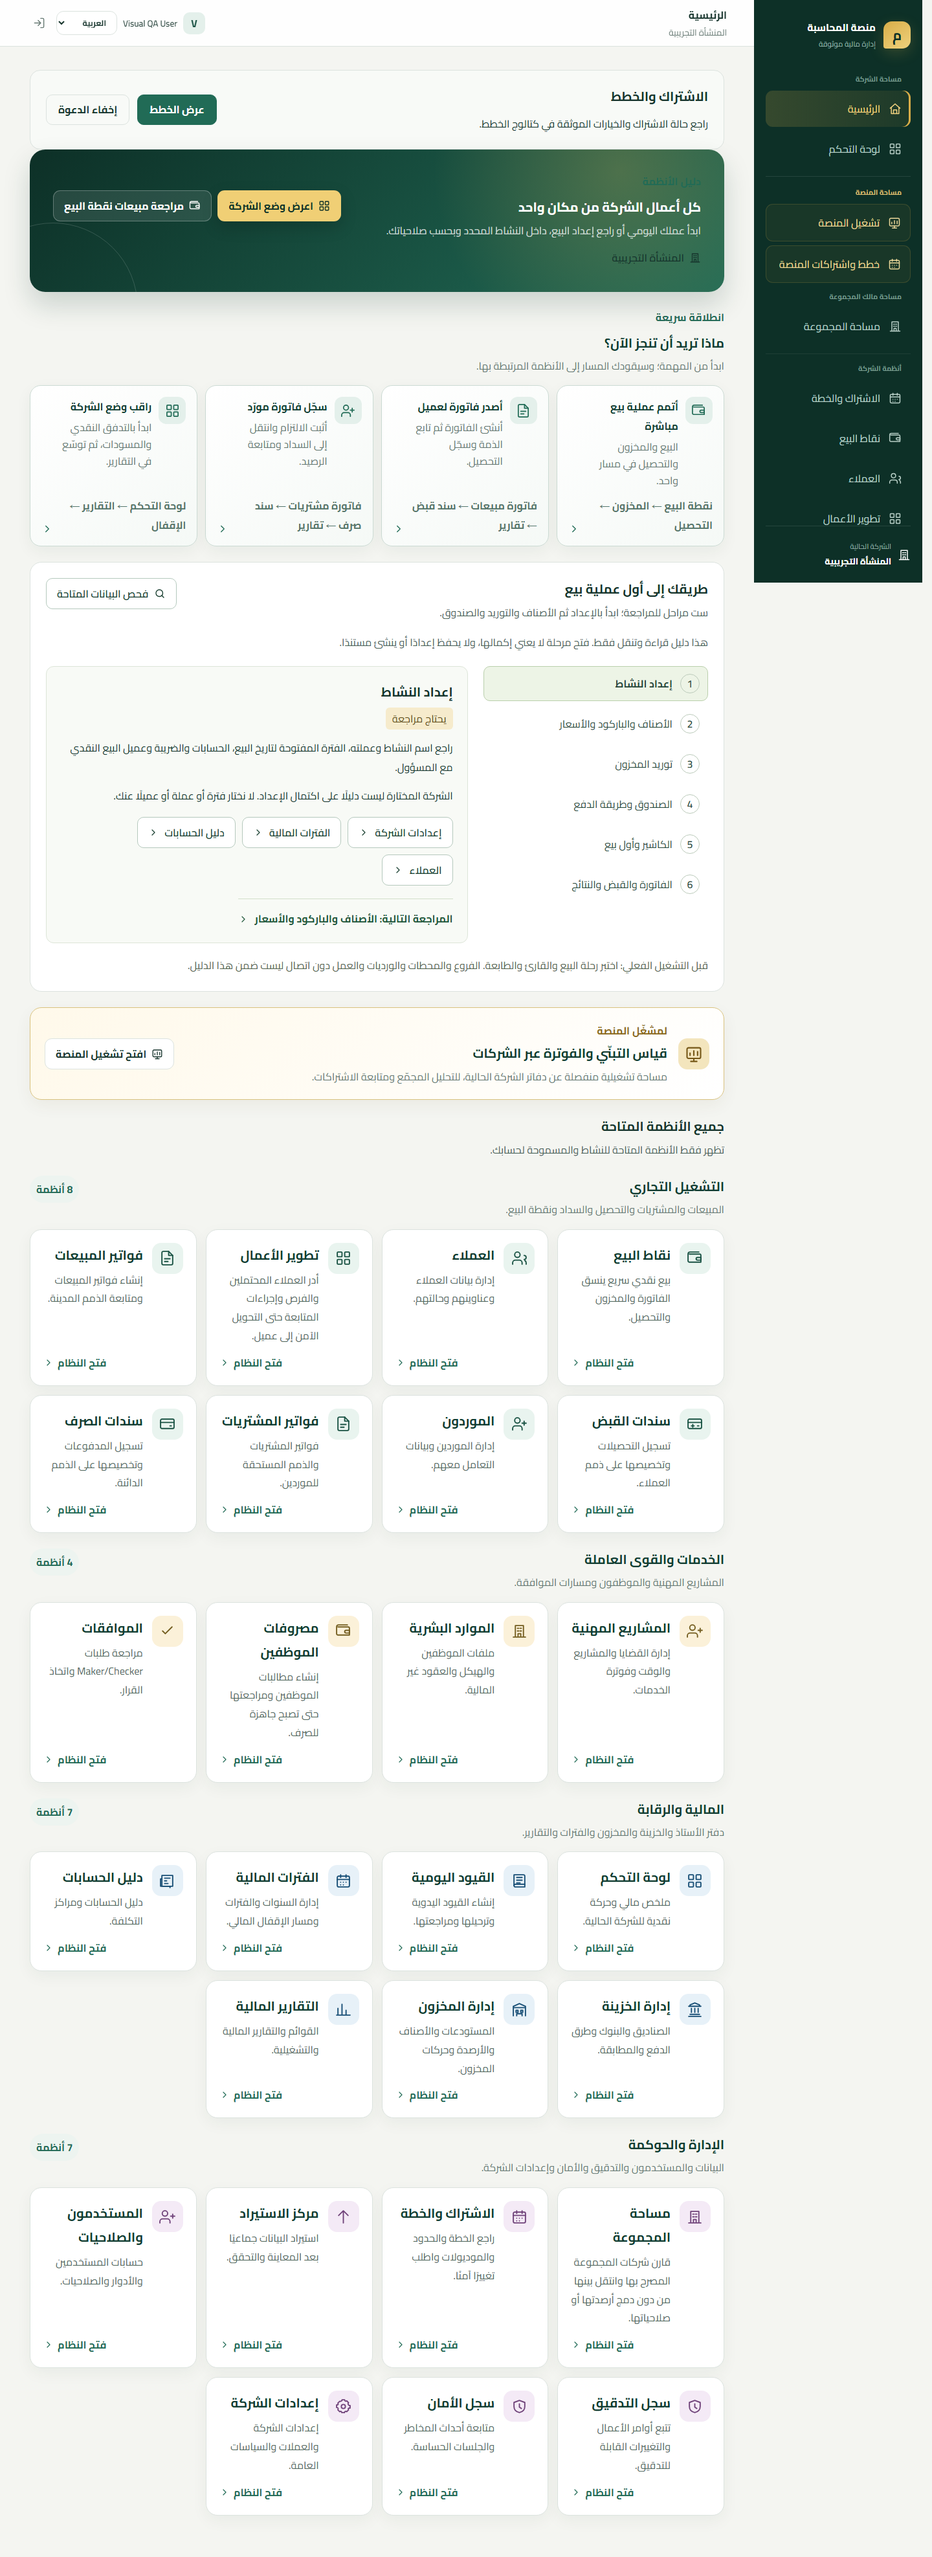
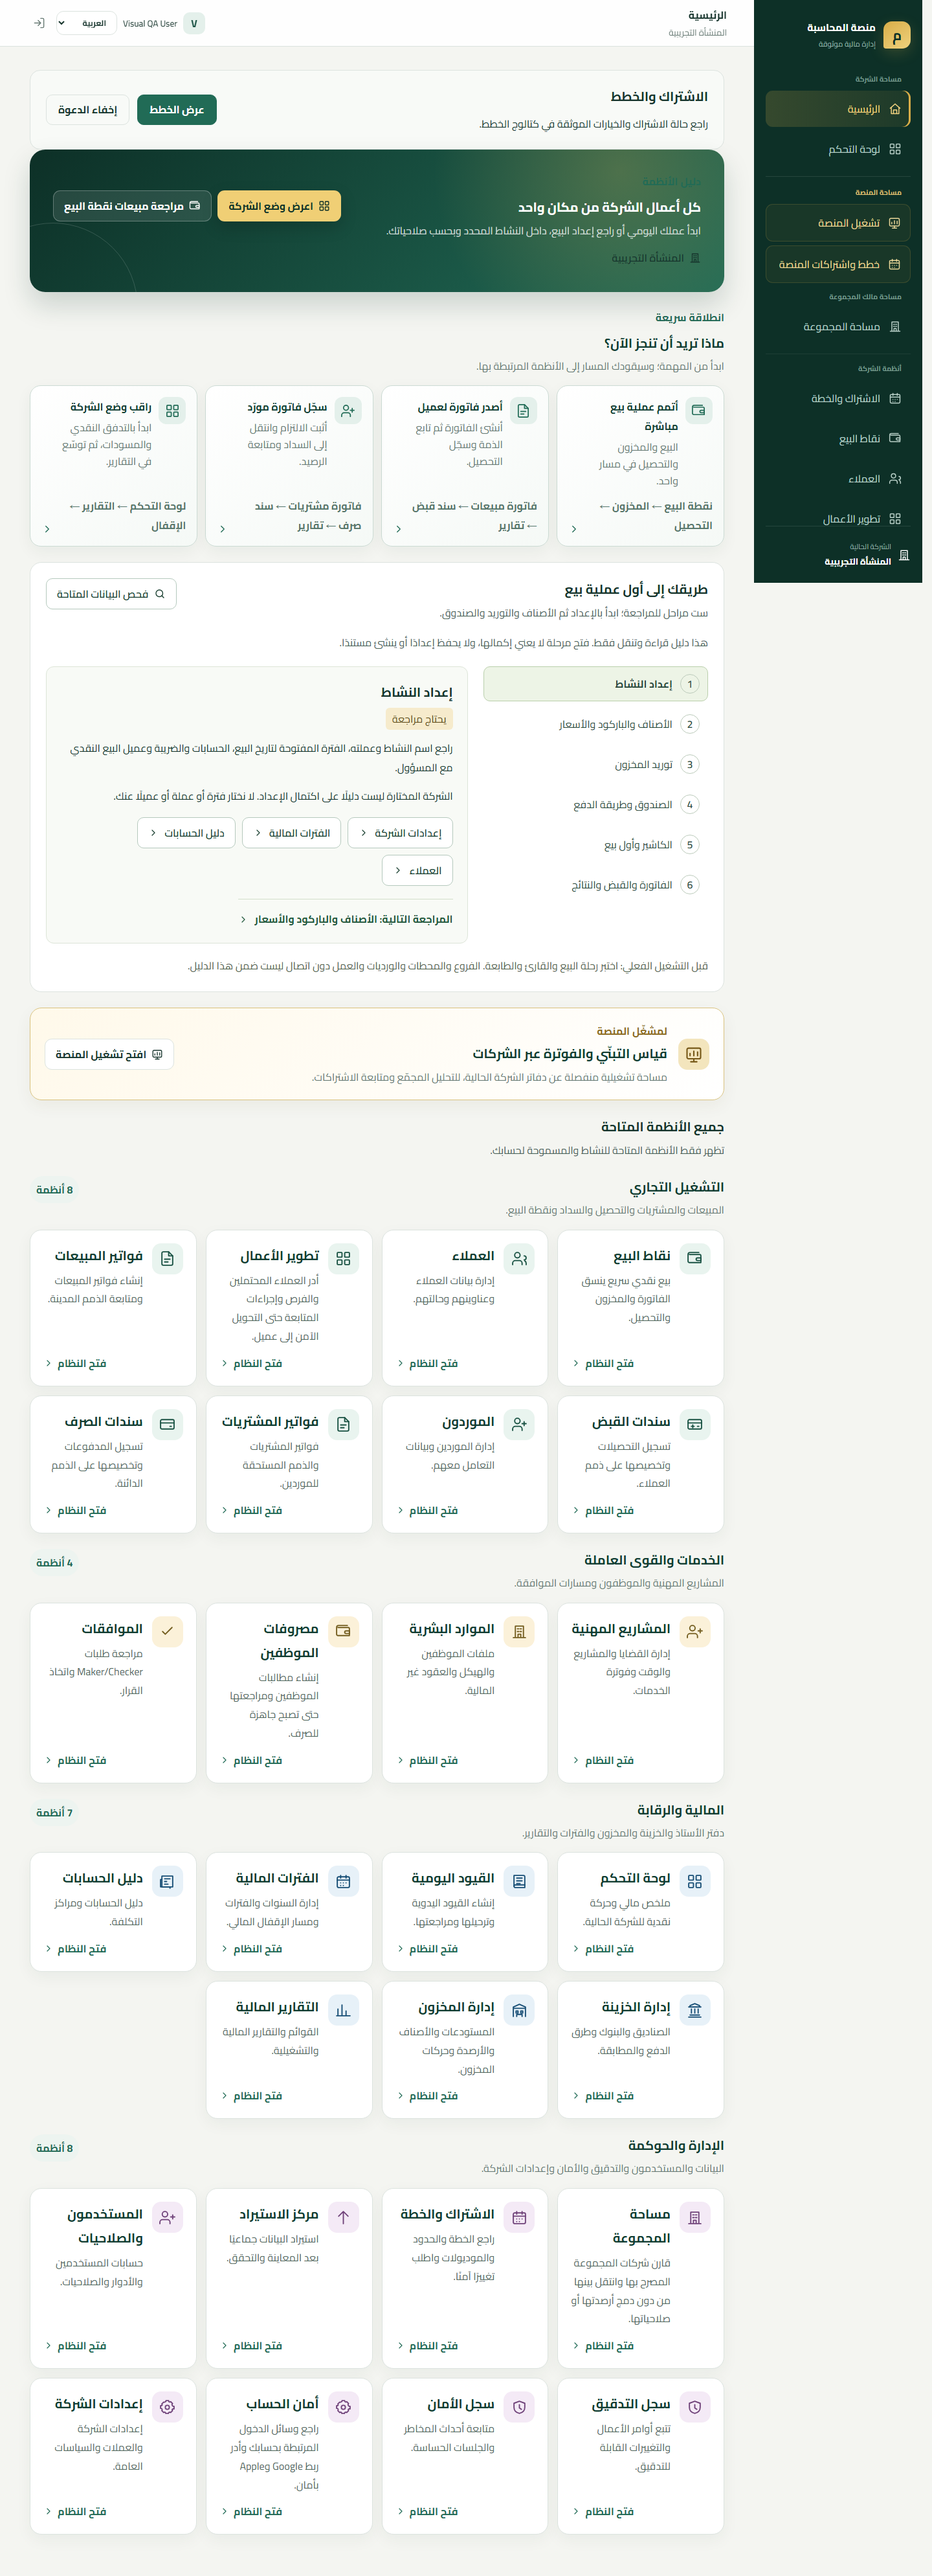
fix(release): align account access acceptance gates

diff --git a/apps/web/src/group-company-onboarding/CreateGroupCompany.tsx b/apps/web/src/group-company-onboarding/CreateGroupCompany.tsx
@@ -6,6 +6,9 @@ import { confirmedGroupCompanyResult, type GroupCompanyResult } from "./result";
 
 type Options = { currencies: Array<{ code: string; nameAr: string }>; timezones: string[] };
 type Attempt = { key: string; body: string };
+const validOptions = (value: Options) => Array.isArray(value?.currencies)
+  && value.currencies.every(currency => typeof currency?.code === "string" && typeof currency?.nameAr === "string")
+  && Array.isArray(value?.timezones) && value.timezones.every(zone => typeof zone === "string");
 
 export function CreateGroupCompany({ organizationId, onCreated, onPendingChange }: { organizationId: string; onCreated: () => Promise<void>; onPendingChange: (pending: boolean) => void }) {
   const { t } = useI18n();
@@ -21,7 +24,10 @@ export function CreateGroupCompany({ organizationId, onCreated, onPendingChange 
     active.current = true;
     const controller = new AbortController();
     api<Options>(`/organizations/${organizationId}/company-options`, { signal: controller.signal })
-      .then(value => { if (!controller.signal.aborted) { setOptions(value); setError(""); } })
+      .then(value => {
+        if (!validOptions(value)) throw new Error(t("organization.create.failed"));
+        if (!controller.signal.aborted) { setOptions(value); setError(""); }
+      })
       .catch((cause: unknown) => { if (!controller.signal.aborted) setError(cause instanceof Error ? cause.message : t("organization.create.failed")); });
     return () => { active.current = false; controller.abort(); };
   }, [organizationId, reload, t]);

diff --git a/tests/track-b/auth-resilience.spec.ts b/tests/track-b/auth-resilience.spec.ts
@@ -273,14 +273,14 @@ test("boot network failure is bounded and direct recovery pages do not await CSR
   await expect(page.locator(".auth-wait")).toHaveCount(0);
 });
 
-test("session expiry during shell recovery returns to manual login without replay or clearing CSRF", async ({ page }) => {
+test("session expiry during shell recovery returns to manual login without replay and clears stale CSRF", async ({ page }) => {
   const state = await authFixture(page);
   await page.route("**/api/v1/auth/me", (route) => route.fulfill({ status: 401, json: { code: "AUTHENTICATION_REQUIRED" } }));
   await openLogin(page);
   await page.locator("button[type=submit]").click();
-  await expect(page.getByRole("alert")).toContainText("no valid sign-in session");
+  await expect(page.locator(".login-card > p[role=alert]")).toContainText("no valid sign-in session");
   await expect(page.locator("input[name=password]")).toBeVisible();
-  expect(await page.evaluate(() => sessionStorage.getItem("mcap.csrf"))).toBe("authenticated-token");
+  expect(await page.evaluate(() => sessionStorage.getItem("mcap.csrf"))).toBeNull();
   expect(state.posts).toEqual(["/auth/login"]);
   expect(state.csrf).toBe(1);
   await expect(page.locator(".app-shell")).toHaveCount(0);

diff --git a/apps/web/src/social-auth/AccountSecurityPage.tsx b/apps/web/src/social-auth/AccountSecurityPage.tsx
@@ -45,7 +45,9 @@ export function AccountSecurityPage({ notify }: {
       history.replaceState(null, "", `${location.pathname}${params.size ? `?${params}` : ""}${location.hash}`);
     }
     void refresh(controller.signal)
-      .catch((error: unknown) => notify(error instanceof Error ? error.message : t("accountSecurity.failed"), "error"))
+      .catch((error: unknown) => {
+        if (!controller.signal.aborted) notify(error instanceof Error ? error.message : t("accountSecurity.failed"), "error");
+      })
       .finally(() => { if (!controller.signal.aborted) setLoading(false); });
     return () => controller.abort();
   }, []);
@@ -77,10 +79,10 @@ export function AccountSecurityPage({ notify }: {
     }
   }
 
-  if (loading) return <div className="loading"><Spinner /><span>{t("accountSecurity.loading")}</span></div>;
+  if (loading) return <div className="workspace-page social-account-security loading"><Spinner /><span>{t("accountSecurity.loading")}</span></div>;
 
   return (
-    <section className="social-account-security" dir={dir}>
+    <section className="workspace-page social-account-security" dir={dir}>
       <header>
         <h1>{t("accountSecurity.title")}</h1>
         <p>{t("accountSecurity.description")}</p>

diff --git a/tests/visual/responsive-ui.spec.ts b/tests/visual/responsive-ui.spec.ts
@@ -48,6 +48,7 @@ const workspaceScreens: Screen[] = [
   'admin',
   'audit',
   'security',
+  'accountSecurity',
   'settings',
 ].map((name): Screen => ({ name, path: `/?qa=${name}#${name}`, ready: '.workspace-page', kind: 'workspace' }));
 
@@ -191,7 +192,7 @@ async function auditCurrentInterface(page: Page, locale: Locale, label: string) 
 }
 
 for (const locale of ['ar', 'en', 'ur', 'hi'] as const) {
-  test(`${locale}: all 32 screens satisfy the responsive interface contract`, async ({ page }) => {
+  test(`${locale}: all 33 screens satisfy the responsive interface contract`, async ({ page }) => {
     const runtimeErrors: string[] = [];
     const posRequests: Request[] = [];
     const posResponses: Response[] = [];

diff --git a/apps/web/src/App.tsx b/apps/web/src/App.tsx
@@ -304,6 +304,7 @@ export default function App() {
   if (state === "login")
     return (
       <LoginScreen
+        key={sessionExpired ? "expired-session" : "login"}
         sessionExpired={sessionExpired}
         onForgotPassword={() => {
           location.hash = "reset-password";
@@ -313,7 +314,10 @@ export default function App() {
           location.hash = subscriptionPlanHash("register", subscriptionPlanForRoute(location.hash));
           setState("register");
         }}
-        onLoggedIn={(signal) => loadAuthenticatedShell(true, signal)}
+        onLoggedIn={(signal) => {
+          authenticatedShell.current = true;
+          return loadAuthenticatedShell(true, signal);
+        }}
       />
     );
 
